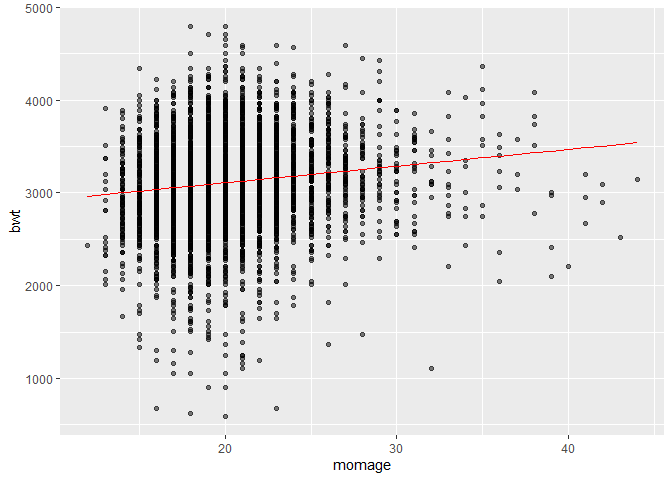
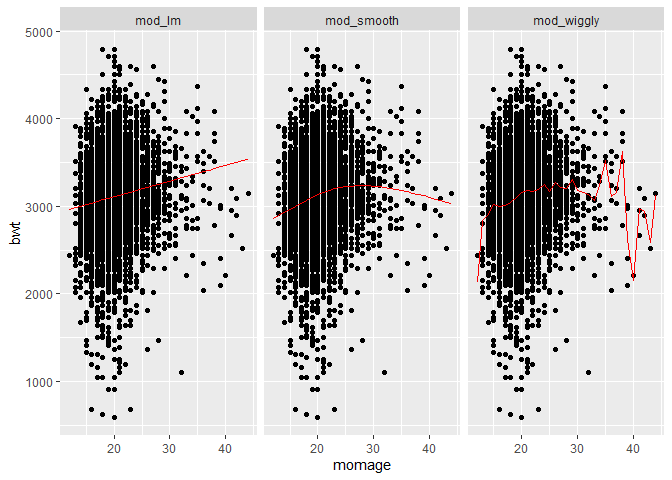
building more models in problem 3

diff --git a/p8105_yh3555_hw6.md b/p8105_yh3555_hw6.md
@@ -128,6 +128,7 @@ building plot
 city_data %>% 
   ggplot(aes(x = city_state, y = OR)) +
   geom_point() +
+  geom_errorbar(aes(ymin = ci_lower, ymax= ci_upper)) +
   facet_wrap(~term) + 
   theme(axis.text.x = element_text(angle = 80, hjust = 1))
 ```
@@ -135,25 +136,6 @@ city_data %>%
 ![](p8105_yh3555_hw6_files/figure-gfm/unnamed-chunk-7-1.png)<!-- -->
 
 ## Problem 3
-
-Propose a regression model for birthweight. This model may be based on a
-hypothesized structure for the factors that underly birthweight, on a
-data-driven model-building process, or a combination of the two.
-Describe your modeling process and show a plot of model residuals
-against fitted values – use add_predictions and add_residuals in making
-this plot.
-
-Compare your model to two others:
-
-    One using length at birth and gestational age as predictors (main effects only)
-    One using head circumference, length, sex, and all interactions (including the three-way interaction) between these
-
-Make this comparison in terms of the cross-validated prediction error;
-use crossv_mc and functions in purrr as appropriate.
-
-Note that although we expect your model to be reasonable, model building
-itself is not a main idea of the course and we don’t necessarily expect
-your model to be “optimal” Import data
 
 ``` r
 bw = read.csv("./data/birthweight.csv")
@@ -167,20 +149,29 @@ bw_tidy = bw %>%
   select(bwt, momage) %>%
   filter(!bwt %in% c(NA),
          !momage %in% c(NA))
+bw_tidy %>%
+  ggplot(aes(x = momage, y = bwt))+
+  geom_point()
 ```
 
-build linear model
+![](p8105_yh3555_hw6_files/figure-gfm/unnamed-chunk-9-1.png)<!-- -->
 
 ``` r
-linear_mod1 = lm(bwt ~ momage, data = bw_tidy)
+mod_lm = lm(bwt ~ momage, data = bw_tidy)
+mod_smooth = mgcv::gam(bwt ~ s(momage), data = bw_tidy)
+mod_wiggly = mgcv::gam(bwt ~ s(momage, k = 30), sp = 10e-6, data = bw_tidy)
 ```
 
 Build plot
 
 ``` r
 bw_tidy %>%
-  add_predictions(linear_mod1) %>%
-  ggplot(aes(x = momage, y =bwt)) + geom_point(alpha = .5) + geom_line(aes(y=pred), color = "red") 
+  gather_predictions(mod_lm, mod_smooth, mod_wiggly) %>%
+  mutate(model = fct_inorder(model)) %>%
+  ggplot(aes(x = momage, y = bwt)) +
+  geom_point() +
+  geom_line(aes( y =pred), color = "red") +
+  facet_wrap(~model)
 ```
 
 ![](p8105_yh3555_hw6_files/figure-gfm/unnamed-chunk-11-1.png)<!-- -->
